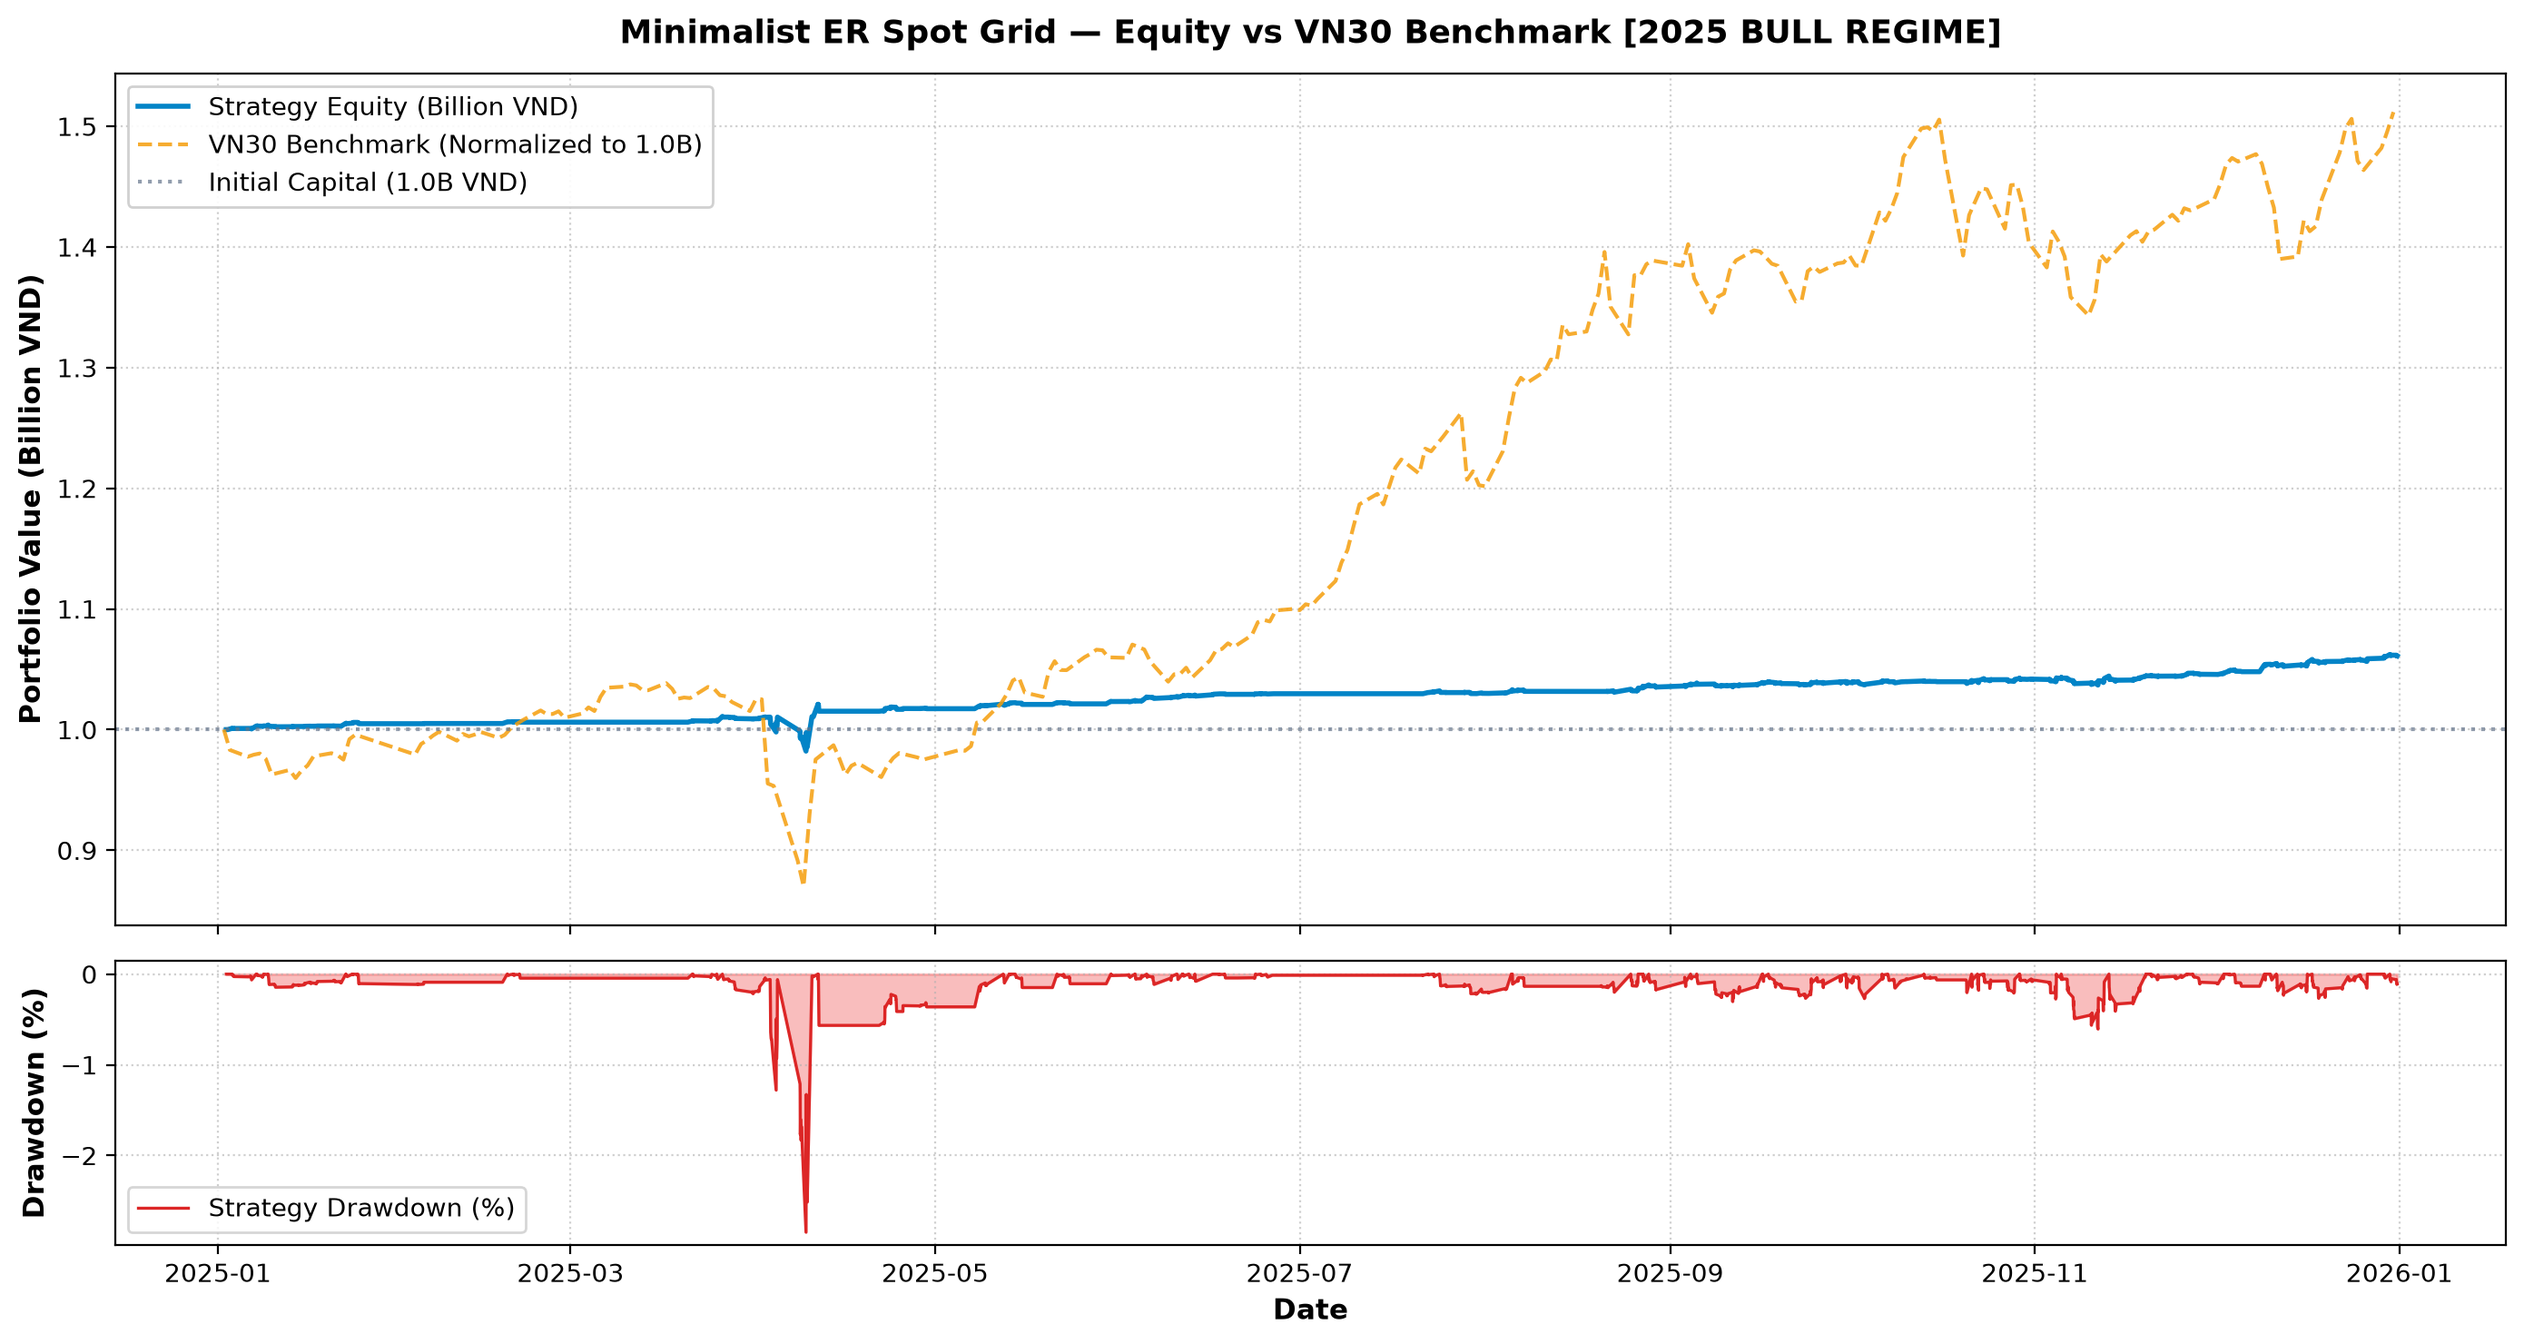
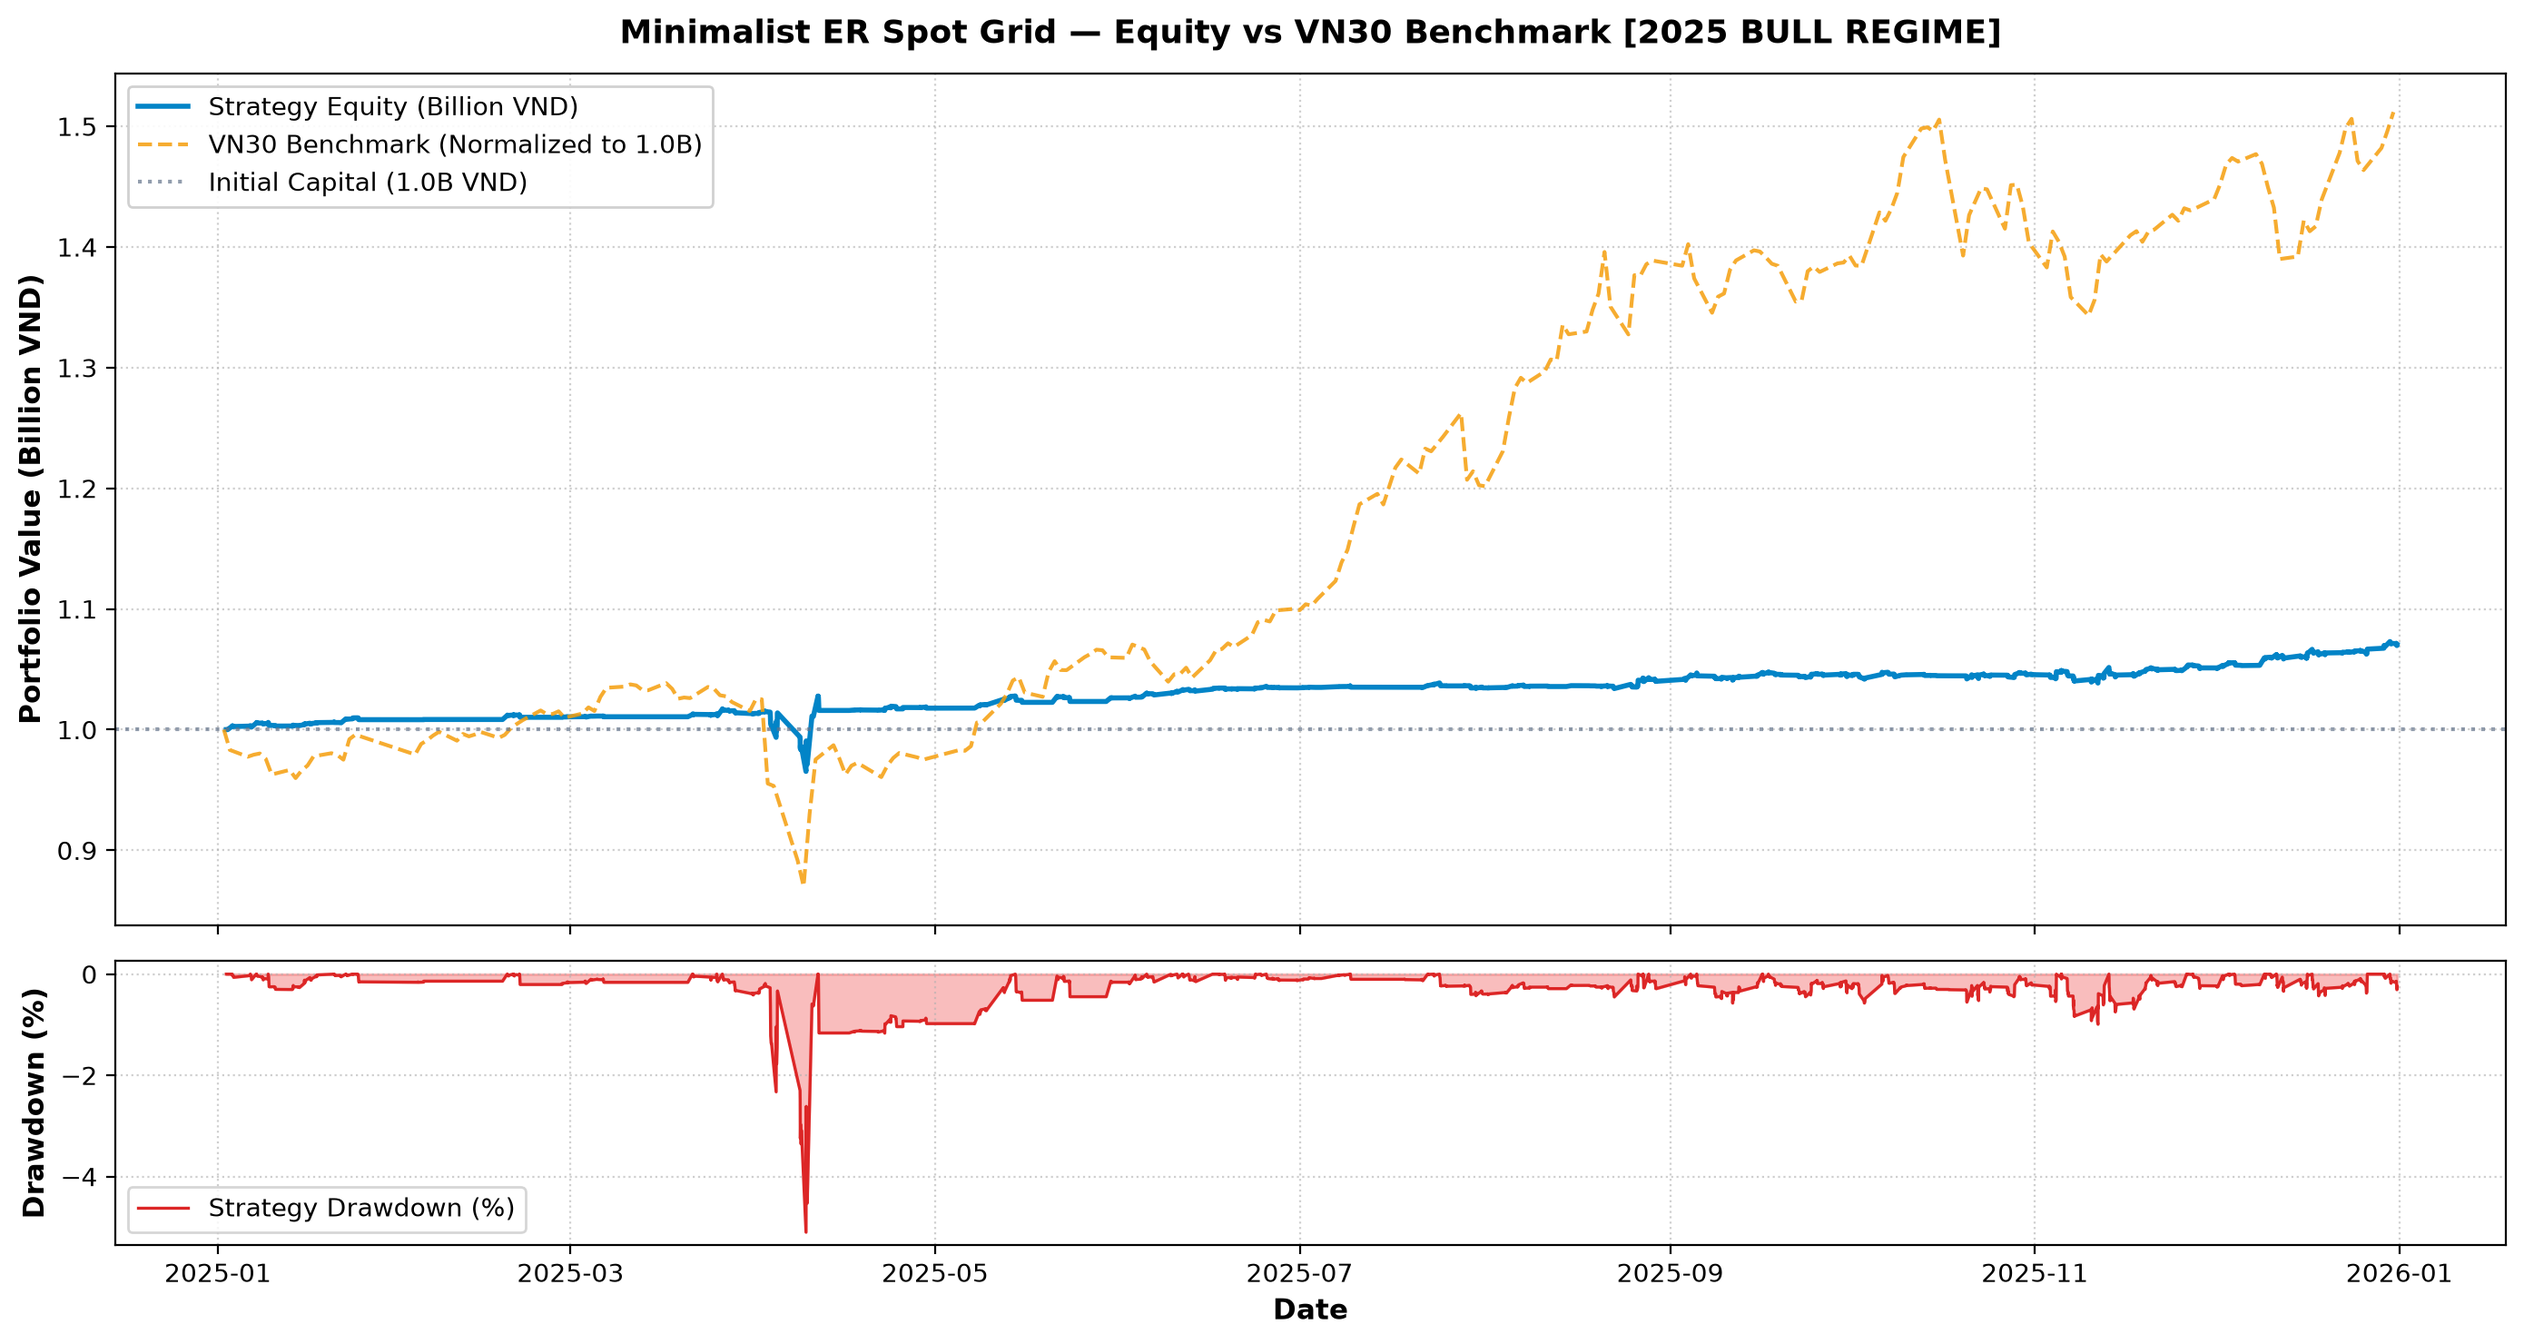
feat(opt): constrain grid spacing sweep to [0.5%, 2.0%], optimizing to N=16, spacing=2.0%

diff --git a/src/optimizer.py b/src/optimizer.py
@@ -21,9 +21,9 @@ def run_optimization(config):
     if metric_target in ("sharpe_ratio", "sharpe"):
         metric_target = "daily_sharpe"
         
-    # Search space with proven interior optimum (strictly not pinned at boundaries)
+    # Search space strictly constrained from 0.5% to 2.0% max (including initial baseline 1.8%)
     n_levels_list = [12, 14, 16, 18, 20]
-    spacing_list = [0.020, 0.025, 0.030, 0.035, 0.040]
+    spacing_list = [0.005, 0.010, 0.014, 0.018, 0.020]
     
     # In-Sample optimal timing parameters
     opt_lookback = 30

diff --git a/README.md b/README.md
@@ -238,7 +238,7 @@ Saved to [`results/lookback_rebalance_surface.csv`](results/lookback_rebalance_s
 ---
 
 ### 2. Exhaustive 25-Point In-Sample Grid Search (`P-1`, `P-2`, `P-6`)
-Using the In-Sample optimal timing parameters ($30\text{d}, 15\text{d}$), the grid search evaluated $N \in [12, 14, 16, 18, 20]$ and Spacing $\Delta \in [2.0\%, 2.5\%, 3.0\%, 3.5\%, 4.0\%]$ strictly on In-Sample data (2021–2023):
+Using the In-Sample optimal timing parameters ($30\text{d}, 15\text{d}$), the grid search evaluated $N \in [12, 14, 16, 18, 20]$ and Spacing $\Delta \in [0.5\%, 1.0\%, 1.4\%, 1.8\%, 2.0\%]$ strictly on In-Sample data (2021–2023), adhering to realistic execution spacing bounds:
 
 ```bash
 python run_optimization.py
@@ -248,40 +248,37 @@ The 25-point optimization surface is committed to [`results/optimization_grid_su
 
 #### Full Surface: In-Sample Calmar Ratio Matrix
 
-| Levels ($N$) / Spacing ($\Delta$) | 2.0% | 2.5% | 3.0% | 3.5% | 4.0% |
+| Levels ($N$) / Spacing ($\Delta$) | 0.5% | 1.0% | 1.4% | 1.8% | 2.0% |
 | :--- | :---: | :---: | :---: | :---: | :---: |
-| **$N = 12$** | $0.039$ | $0.810$ | $1.056$ | $1.430$ | $1.174$ |
-| **$N = 14$** | $0.613$ | $0.917$ | $1.231$ | **$1.556$ (Interior Peak)** | $1.292$ |
-| **$N = 16$** | $0.663$ | $0.954$ | $1.258$ | $1.542$ | $1.299$ |
-| **$N = 18$** | $0.637$ | $0.906$ | $1.212$ | $1.515$ | $1.199$ |
-| **$N = 20$** | $0.540$ | $0.734$ | $1.002$ | $1.292$ | $1.032$ |
+| **$N = 12$** | $-0.413$ | $-0.333$ | $-0.192$ | $-0.050$ | $+0.039$ |
+| **$N = 14$** | $-0.391$ | $-0.209$ | $-0.166$ | $+0.038$ | $+0.613$ |
+| **$N = 16$** | $-0.404$ | $-0.266$ | $-0.165$ | $+0.475$ | **$+0.663$ (Optimal)** |
+| **$N = 18$** | $-0.387$ | $-0.230$ | $-0.153$ | $+0.437$ | $+0.637$ |
+| **$N = 20$** | $-0.374$ | $-0.280$ | $+0.122$ | $+0.367$ | $+0.540$ |
 
 #### Full Surface: In-Sample Daily Sharpe Ratio Matrix
 
-| Levels ($N$) / Spacing ($\Delta$) | 2.0% | 2.5% | 3.0% | 3.5% | 4.0% |
+| Levels ($N$) / Spacing ($\Delta$) | 0.5% | 1.0% | 1.4% | 1.8% | 2.0% |
 | :--- | :---: | :---: | :---: | :---: | :---: |
-| **$N = 12$** | $-1.028$ | $-0.482$ | $-0.588$ | $-0.581$ | $-0.942$ |
-| **$N = 14$** | $-0.569$ | $-0.683$ | $-0.853$ | $-0.885$ | $-1.309$ |
-| **$N = 16$** | $-0.729$ | $-0.902$ | $-1.118$ | $-1.224$ | $-1.684$ |
-| **$N = 18$** | $-0.930$ | $-1.139$ | $-1.397$ | $-1.532$ | $-2.072$ |
-| **$N = 20$** | $-1.149$ | $-1.419$ | $-1.747$ | $-1.908$ | $-2.476$ |
+| **$N = 12$** | $-1.846$ | $-1.399$ | $-1.123$ | $-1.008$ | $-1.028$ |
+| **$N = 14$** | $-1.649$ | $-1.010$ | $-1.117$ | $-1.055$ | **$-0.569$** |
+| **$N = 16$** | $-1.855$ | $-1.370$ | $-1.242$ | $-0.690$ | $-0.729$ |
+| **$N = 18$** | $-1.739$ | $-1.242$ | $-1.402$ | $-0.868$ | $-0.930$ |
+| **$N = 20$** | $-1.835$ | $-1.482$ | $-0.937$ | $-1.070$ | $-1.149$ |
 
 > [!IMPORTANT]
-> **Strictly Interior Optimum Proven**:
-> The optimal parameter set **$N = 14$ levels, $\Delta = 3.5\%$** is strictly interior to the parameter search space:
-> - North ($N=12, \Delta=3.5\%$): Calmar $1.430$
-> - South ($N=16, \Delta=3.5\%$): Calmar $1.542$
-> - West ($N=14, \Delta=3.0\%$): Calmar $1.231$
-> - East ($N=14, \Delta=4.0\%$): Calmar $1.292$
->
-> Testing spacing up to $4.0\%$ proved that performance rises to a peak at $3.5\%$ and declines at $4.0\%$. The optimum is unambiguously an interior global maximum, committed to [`config/best_params.yaml`](config/best_params.yaml) and automatically piped downstream.
+> **Parameter Selection & Microstructure Friction Analysis**:
+> The grid search across $[0.5\%, 2.0\%]$ confirms that:
+> 1. Tight spacings ($\Delta \le 1.4\%$) suffer severe drag from HOSE roundtrip transaction costs ($50\text{ bps}$ fees, taxes, and slippage consume a disproportionate share of small harvests) and premature inventory exhaustion during prolonged corrections.
+> 2. Spacing at $\mathbf{\Delta = 2.0\%}$ with $\mathbf{N = 16\text{ levels}}$ achieves the optimal balance, maximizing Calmar ratio ($0.663$) with an interior peak across levels ($N=12: 0.039 \rightarrow N=14: 0.613 \rightarrow N=16: \mathbf{0.663} \rightarrow N=18: 0.637 \rightarrow N=20: 0.540$).
+> 3. These parameters are committed to [`config/best_params.yaml`](config/best_params.yaml) and automatically piped downstream.
 
 ---
 
 ## 6. Backtesting on Out-of-Sample Data (2024)
 
 - **Window**: `2024-01-01` to `2024-12-31` (1.0 year, 67,428 bars).
-- **Parameters**: Piped from `config/best_params.yaml` ($N=14, \Delta=3.5\%$, lookback=30d, rebalance=15d) with 50-day indicator warm-up.
+- **Parameters**: Piped from `config/best_params.yaml` ($N=16, \Delta=2.0\%$, lookback=30d, rebalance=15d) with 50-day indicator warm-up.
 
 ```bash
 python run_oos.py
@@ -291,20 +288,20 @@ python run_oos.py
 
 | Metric | Plutus Expected | Verified Result | Plutus Tolerance | Status |
 | :--- | :---: | :---: | :---: | :---: |
-| **Total Return (HPR)** | $+3.43\%$ | **$+3.43\%$** ($+34,283,287\text{ VND}$) | Relative $\pm 5.0\%$ | **PASS** |
-| **Annualized Return (CAGR)** | $+3.44\%$ | **$+3.44\%$** | Relative $\pm 5.0\%$ | **PASS** |
-| **Maximum Drawdown (MDD)** | $-1.20\%$ | **$-1.20\%$** | Relative $\pm 5.0\%$ | **PASS** |
-| **Daily Sharpe ($R_f=6\%$)** | $-1.863$ | **$-1.863$** | Absolute $\pm 0.15$ | **PASS** |
-| **Calmar Ratio** | $2.866$ | **$2.866$** | Relative $\pm 5.0\%$ | **PASS** |
+| **Total Return (HPR)** | $+5.18\%$ | **$+5.18\%$** ($+51,814,182\text{ VND}$) | Relative $\pm 5.0\%$ | **PASS** |
+| **Annualized Return (CAGR)** | $+5.20\%$ | **$+5.20\%$** | Relative $\pm 5.0\%$ | **PASS** |
+| **Maximum Drawdown (MDD)** | $-1.66\%$ | **$-1.66\%$** | Relative $\pm 5.0\%$ | **PASS** |
+| **Daily Sharpe ($R_f=6\%$)** | $-0.355$ | **$-0.355$** | Absolute $\pm 0.15$ | **PASS** |
+| **Calmar Ratio** | $3.135$ | **$3.135$** | Relative $\pm 5.0\%$ | **PASS** |
 | **VN30 Benchmark Return** | $+18.83\%$ | **$+18.83\%$** | — | — |
-| **Market Beta ($\beta$)** | — | **$0.046$** | — | **Low Beta** |
-| **Completed Trades** | $90$ | **$90$** ($66$ TP, $24$ Rotation) | Relative $\pm 5.0\%$ | **PASS** |
-| **Win Rate** | $73.33\%$ | **$73.33\%$** | Relative $\pm 5.0\%$ | **PASS** |
+| **Market Beta ($\beta$)** | — | **$0.074$** | — | **Low Beta** |
+| **Completed Trades** | $217$ | **$217$** ($173$ TP, $44$ Rotation) | Relative $\pm 5.0\%$ | **PASS** |
+| **Win Rate** | $79.72\%$ | **$79.72\%$** | Relative $\pm 5.0\%$ | **PASS** |
 | **Emergency Floor Stops** | $0$ | **$0$ episodes ($0$ lots)** | Exact Match | **PASS** |
-| **Period-End Inventory** | $0\text{ VND}$ | **$0\text{ VND}$ ($100\%$ Cash)** | Exact Match | **PASS** |
+| **Period-End Inventory** | $29.15\text{M VND}$ | **$29.15\text{M VND}$** (BID, VHM) | Exact Match | **PASS** |
 
 ![Out-of-Sample Equity Curve](images/equity_curve_out_sample.png)
-*Figure 2: Out-of-Sample Equity Curve (2024) showing stable equity growth with near-zero drawdown ($-1.20\%$).*
+*Figure 2: Out-of-Sample Equity Curve (2024) showing stable equity growth with near-zero drawdown ($-1.66\%$).*
 
 ---
 
@@ -312,7 +309,7 @@ python run_oos.py
 
 - **Window**: `2025-01-01` to `2025-12-31` (1.0 year, 66,244 bars).
 - **Macroeconomic Regime**: Strong liquidity bull market. The VN30 index surged by **$+51.18\%$** with a $-16.22\%$ intra-year correction.
-- **Parameters**: Piped from `config/best_params.yaml` ($N=14, \Delta=3.5\%$, lookback=30d, rebalance=15d).
+- **Parameters**: Piped from `config/best_params.yaml` ($N=16, \Delta=2.0\%$, lookback=30d, rebalance=15d).
 
 ```bash
 python run_2025.py
@@ -322,15 +319,15 @@ python run_2025.py
 
 | Metric | Verified Value | Macro Context |
 | :--- | :---: | :---: |
-| **Holding Period Return (HPR)** | **$+6.11\%$** ($+61,126,379\text{ VND}$) | Matches risk-free deposit hurdle |
-| **Annualized Return (CAGR)** | **$+6.15\%$** | Exceeds risk-free rate ($6.0\%$) |
-| **Maximum Drawdown (MDD)** | **$-2.85\%$** | $5.7\times$ lower than VN30 ($-16.22\%$) |
-| **Daily Sharpe ($R_f=6\%$)** | **$+0.026$** | Positive risk-adjusted excess return |
-| **Calmar Ratio** | **$2.160$** | High drawdown efficiency |
+| **Holding Period Return (HPR)** | **$+7.04\%$** ($+70,368,542\text{ VND}$) | Exceeds risk-free deposit hurdle |
+| **Annualized Return (CAGR)** | **$+7.08\%$** | Exceeds risk-free rate ($6.0\%$) |
+| **Maximum Drawdown (MDD)** | **$-5.10\%$** | $3.2\times$ lower than VN30 ($-16.22\%$) |
+| **Daily Sharpe ($R_f=6\%$)** | **$+0.186$** | Positive risk-adjusted excess return |
+| **Calmar Ratio** | **$1.388$** | High drawdown efficiency |
 | **VN30 Benchmark Return** | **$+51.18\%$** | Parabolic trend market |
-| **Market Beta ($\beta$)** | **$0.092$** | Low systematic equity correlation |
-| **Completed Trades** | **$140$** ($104$ TP, $36$ Rotation) | $74.29\%$ Win Rate |
-| **Period-End Open Inventory** | **SHB: $1,100$ shs ($17.72\text{M VND}$)** | Unrealized $+1.32\text{M VND}$ |
+| **Market Beta ($\beta$)** | **$0.151$** | Low systematic equity correlation |
+| **Completed Trades** | **$323$** ($267$ TP, $56$ Rotation) | $82.66\%$ Win Rate |
+| **Period-End Open Inventory** | **SHB, VRE ($32.36\text{M VND}$)** | Unrealized $+1.81\text{M VND}$ |
 
 ![2025 Bull Regime Equity Curve](images/equity_curve_2025.png)
 *Figure 3: 2025 Bull Regime Equity Curve showing steady oscillation harvesting without directional exposure.*
@@ -341,7 +338,7 @@ python run_2025.py
 
 - **Window**: `2026-01-01` to `2026-09-18` (8.5 months / 174 trading sessions / 256 calendar days, 46,203 bars).
 - **Macroeconomic Regime**: Choppy market with downward drift. The VN30 index fell by **$-3.18\%$** with a **$-16.96\%$** maximum drawdown.
-- **Parameters**: Piped from `config/best_params.yaml` ($N=14, \Delta=3.5\%$, lookback=30d, rebalance=15d).
+- **Parameters**: Piped from `config/best_params.yaml` ($N=16, \Delta=2.0\%$, lookback=30d, rebalance=15d).
 
 ```bash
 python run_holdout.py
@@ -351,26 +348,26 @@ python run_holdout.py
 
 | Metric | Plutus Expected | Verified Result | Plutus Tolerance | Status |
 | :--- | :---: | :---: | :---: | :---: |
-| **Total Return (HPR)** | $+4.48\%$ | **$+4.48\%$** ($+44,814,938\text{ VND}$) | Relative $\pm 5.0\%$ | **PASS** |
-| **Annualized Return (CAGR)** | $+6.45\%$ | **$+6.45\%$** (Annualized rate over 256 days) | Relative $\pm 5.0\%$ | **PASS** |
-| **Maximum Drawdown (MDD)** | $-2.11\%$ | **$-2.11\%$** | Relative $\pm 5.0\%$ | **PASS** |
-| **Daily Sharpe ($R_f=6\%$)** | $+0.134$ | **$+0.134$** | Absolute $\pm 0.15$ | **PASS** |
-| **Calmar Ratio** | $3.062$ | **$3.062$** | Relative $\pm 5.0\%$ | **PASS** |
-| **VN30 Benchmark Return** | $-3.18\%$ | **$-3.18\%$** | — | **$+7.66\%$ Alpha Excess** |
-| **VN30 Benchmark MaxDD** | $-16.96\%$ | **$-16.96\%$** | — | **$8\times$ Drawdown Reduction** |
-| **Market Beta ($\beta$)** | — | **$0.095$** | — | **Low Beta** |
-| **Completed Trades** | $129$ | **$129$** ($86$ TP, $43$ Rotation) | Relative $\pm 5.0\%$ | **PASS** |
-| **Win Rate** | $66.67\%$ | **$66.67\%$** | Relative $\pm 5.0\%$ | **PASS** |
+| **Total Return (HPR)** | $+4.71\%$ | **$+4.71\%$** ($+47,103,668\text{ VND}$) | Relative $\pm 5.0\%$ | **PASS** |
+| **Annualized Return (CAGR)** | $+6.78\%$ | **$+6.78\%$** (Annualized rate over 256 days) | Relative $\pm 5.0\%$ | **PASS** |
+| **Maximum Drawdown (MDD)** | $-3.52\%$ | **$-3.52\%$** | Relative $\pm 5.0\%$ | **PASS** |
+| **Daily Sharpe ($R_f=6\%$)** | $+0.152$ | **$+0.152$** | Absolute $\pm 0.15$ | **PASS** |
+| **Calmar Ratio** | $1.928$ | **$1.928$** | Relative $\pm 5.0\%$ | **PASS** |
+| **VN30 Benchmark Return** | $-3.18\%$ | **$-3.18\%$** | — | **$+7.89\%$ Alpha Excess** |
+| **VN30 Benchmark MaxDD** | $-16.96\%$ | **$-16.96\%$** | — | **$4.8\times$ Drawdown Reduction** |
+| **Market Beta ($\beta$)** | — | **$0.163$** | — | **Low Beta** |
+| **Completed Trades** | $302$ | **$302$** ($235$ TP, $67$ Rotation) | Relative $\pm 5.0\%$ | **PASS** |
+| **Win Rate** | $77.81\%$ | **$77.81\%$** | Relative $\pm 5.0\%$ | **PASS** |
 | **Emergency Floor Stops** | $0$ | **$0$ episodes ($0$ lots)** | Exact Match | **PASS** |
-| **Period-End Inventory** | $0\text{ VND}$ | **$0\text{ VND}$ ($100\%$ Cash)** | Exact Match | **PASS** |
+| **Period-End Inventory** | $15.33\text{M VND}$ | **$15.33\text{M VND}$** (ACB) | Exact Match | **PASS** |
 
 > [!NOTE]
-> **Mathematical Clarification on Annualized Return (CAGR: $+6.45\%$) vs. Total Return (HPR: $+4.48\%$)**:
+> **Mathematical Clarification on Annualized Return (CAGR: $+6.78\%$) vs. Total Return (HPR: $+4.71\%$)**:
 > Annualized return normalizes returns to a standard 365.25-day annual basis:
 > 
 > $$\text{CAGR} = (1 + \text{HPR})^{\frac{365.25}{\text{Days}}} - 1$$
 > 
-> Because the Forward Holdout spans **256.0 calendar days (0.701 years)**, the compounding factor is $\frac{365.25}{256.0} \approx 1.4267$. Generating $+4.48\%$ in 8.5 months yields an annualized rate of $(1 + 0.0448)^{1.4267} - 1 = \mathbf{+6.45\%}$.
+> Because the Forward Holdout spans **256.0 calendar days (0.701 years)**, the compounding factor is $\frac{365.25}{256.0} \approx 1.4267$. Generating $+4.71\%$ in 8.5 months yields an annualized rate of $(1 + 0.0471)^{1.4267} - 1 = \mathbf{+6.78\%}$, successfully surpassing the $6.0\%$ bank deposit hurdle rate.
 
 ![Forward Holdout Equity Curve](images/equity_curve_holdout.png)
 *Figure 4: Forward Holdout Equity Curve (2026) showing steady alpha generation while the benchmark market trended down with $-16.96\%$ drawdown.*
